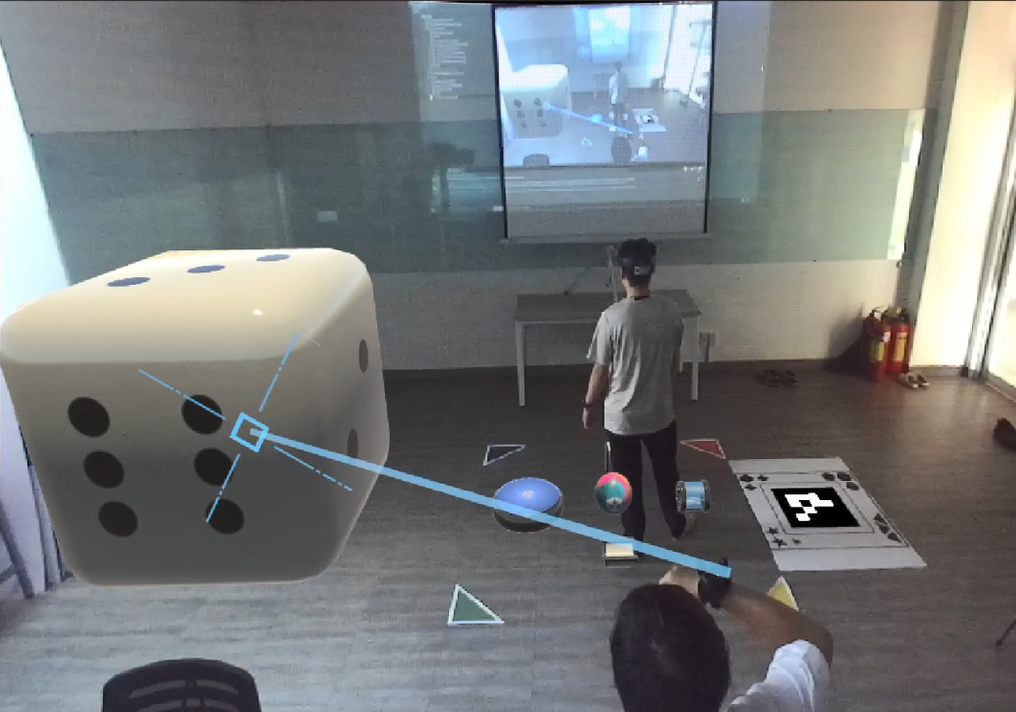
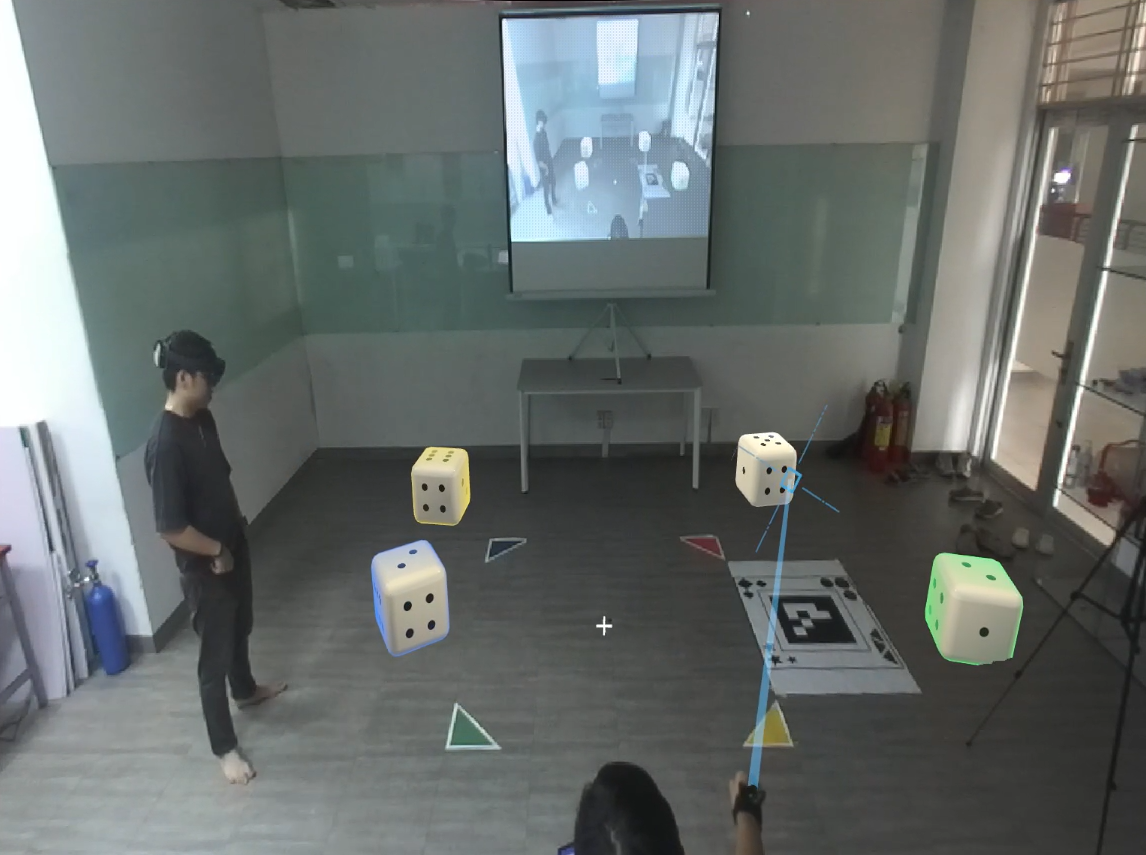
Update README

diff --git a/README.md b/README.md
@@ -79,6 +79,7 @@ Thus, by calculating the 2D coordinates of the crosshair on the virtual display 
 
 ## TODO
 
+- Reduce ZED FOV
 - Fishing rod pointing.
 - Screen/Real + Duration + Time to complete task.
 - sessions based on mode? (3 cube per col (4))
